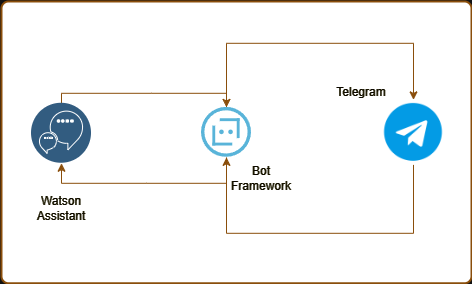
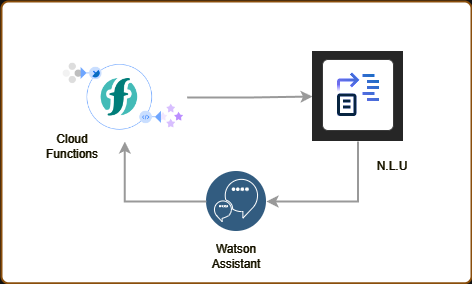
v7 - 20230830

Changed region(s): [[0.0593, 0.1408, 0.9492, 0.9577], [0.0593, 0.6761, 0.178, 0.7887], [0.2373, 0.4507, 0.2669, 0.4789]]

diff --git a/BATESTINBOT/README.md b/BATESTINBOT/README.md
@@ -13,7 +13,7 @@
 
 <h3>About the project</h3>
 
-<p>The project is a chatbot developed by <b> Watson Assistant </b> and enhanced in <b> TELEGRAM BOT </b> using <b> Azure Bot Framework.</b> All services are connected between itself running on the LITE plan and easy to maintain.
+<p>The project is a chatbot developed by <b> Watson Assistant </b>.
 The chatbot is self-responsive and answers questions directed to the Maycon persona. The intention is to help recruiters or any user to obtain information about Maycon in a quick and practical way..</p>
 
 <h3>In this Repository</h3>
